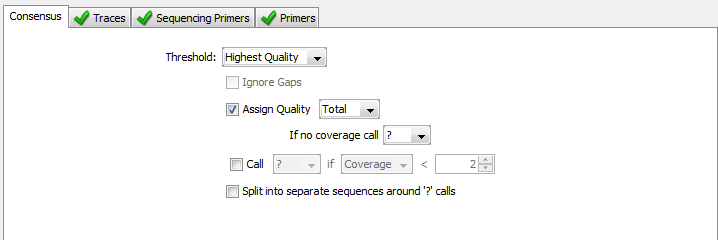
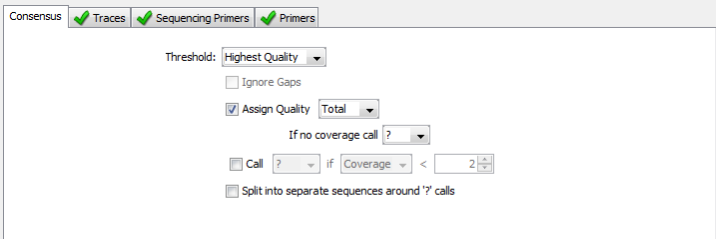
more updates of genbank upload screenshots

diff --git a/Docs/gb_upload.rst b/Docs/gb_upload.rst
@@ -9,15 +9,21 @@ The easiest way to install the plug-in is within Geneious. Go to Tools > Plugins
 
 .. image:: /images/plugin_list.png
   :align: center
+  :target: /en/latest/_images/plugin_list.png  
 
 Click "Install", and Geneious will start downloading it from the Internet. If all goes well, you should see a message telling you that installation was successful, and that a restart will be needed. Restart Geneious.
 
 .. image:: /images/install_success.png
   :align: center
+  :target: /en/latest/_images/install_success.png
 
 Using the Plug-in
 -----------------
 Because traces are a required part of a BARCODE keyword record on GenBank, **use the Assembly as the basis of GenBank submission.**
+
+Organize the assemblies you want to submit, and then go to Tools > Submit to GenBank. Make sure to only select assemblies from one gene at a time. For example, you will have to make a separate submission package for rbcL and matK sequences.
+
+You will see a window appear that has the following sections. Each section is detailed below.
 
 .. image:: /images/genbank_submit_colorcoded.png
   :align: center
@@ -30,25 +36,45 @@ The first part of the GenBank submission deals with filling out the contact deta
 
 .. image:: /images/submission_details.png
   :align: center
+  :target: /en/latest/_images/submission_details.png
 
 Click on the "Edit Publisher Details…" button to bring up the Publisher Details dialog box.
 
 .. image:: /images/publisher_details.png
   :align: center
+  :target: /en/latest/_images/publisher_details.png
 
 Fill out the top section with the contact information for your submission. Note in the screenshot that I blacked out "First Name", "Last Name", "Phone", "Fax", and "Email". These fields will not be shown in the GenBank record, but the others will.
 
-.. image:: /images/gb_record_example.png
+.. image:: /images/gb_record_publisher_details.png
   :align: center
+  :target: /en/latest/_images/gb_record_publisher_details.png
 
 Field Mapping
 -------------
 The next part of the GenBank submission, will be to map all of the different specimen metadata fields to your GenBank record.
 
-.. image:: /images/field_mapping.png
+.. image:: /images/genbank_fields.png
   :align: center
+  :target: /en/latest/_images/genbank_fields.png
+
+Gene and CDS Features
+---------------------
+
+.. image:: /images/features_from_fields.png
+  :align: center
+  :target: /en/latest/_images/features_from_fields.png
+
+.. image:: /images/genbank_gene_cds.png
+  :align: center
+  :target: /en/latest/_images/genbank_gene_cds.png
+
+BWP Structured Comments
+-----------------------
+
 .. image:: /images/structured_comments.png
-  :align: center  
+  :align: center
+  :target: /en/latest/_images/structured_comments.png
 
 Consensus and Primers
 ---------------------
@@ -56,14 +82,20 @@ Since we are submitting from an assembly of traces, we need to specify to Geneio
 
 .. image:: /images/consensus_defaults.png
   :align: center
+  :target: /en/latest/_images/consensus_defaults.png
+
 PCR Primers are a required component of the Barcode Data Standard. You will need to tell Geneious which of your fields holds the PCR primer names, and PCR primer sequences.
 
 .. image:: /images/primer_defaults.png
   :align: center
+  :target: /en/latest/_images/primer_defaults.png
 
 Traces and Sequencing Primers
 -----------------------------
 .. image:: /images/traces_defaults.png
   :align: center
+  :target: /en/latest/_images/traces_defaults.png
+
 .. image:: /images/sequencing_primers_defaults.png
   :align: center  
+  :target: /en/latest/_images/sequencing_primers_defaults.png
